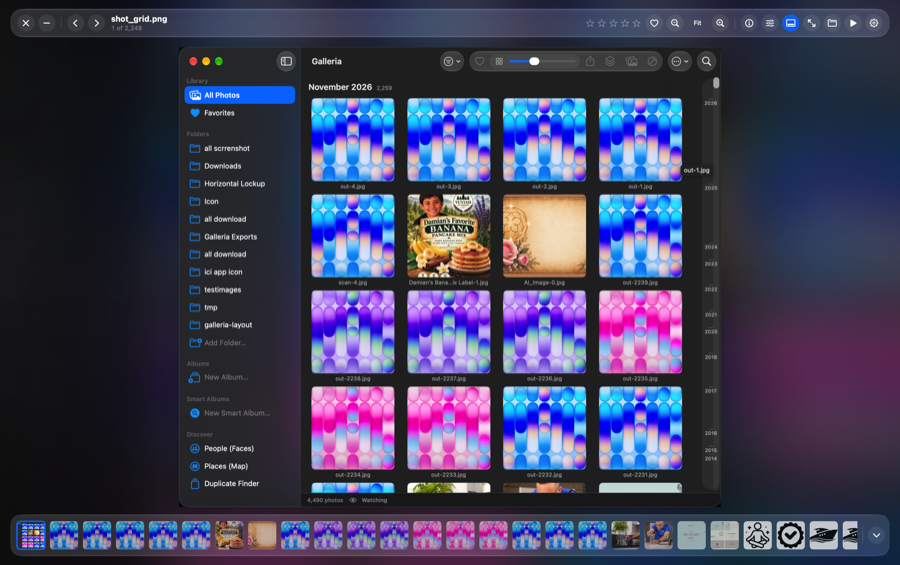
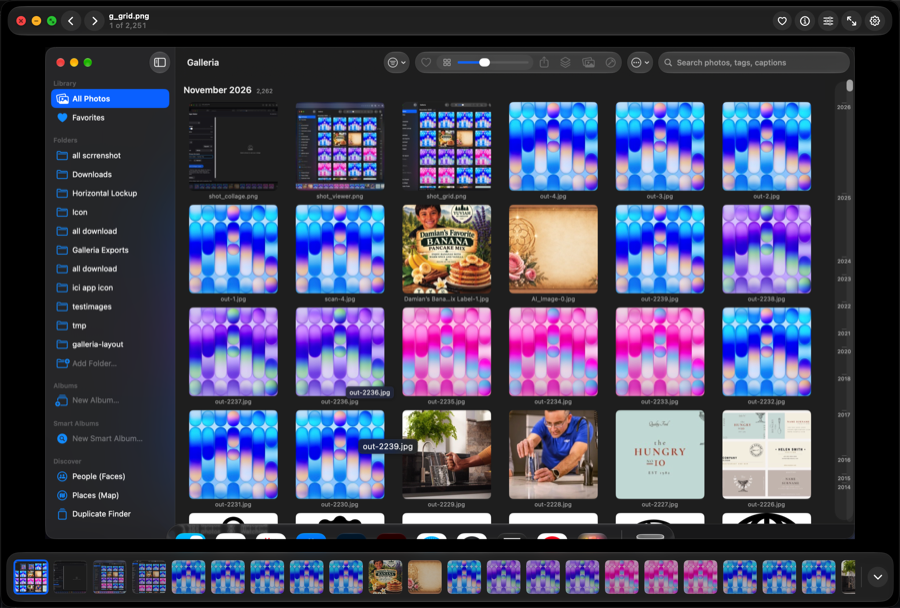
Improve screenshots: larger, consistent, more views

diff --git a/README.md b/README.md
@@ -98,12 +98,19 @@ open dist/Galleria.app
 ---
 
 
-## Screenshots
+## 📸 Screenshots
 
-| Photo library (grid) | Viewer | Collage maker |
-|---|---|---|
-| ![Grid](screenshots/grid.png) | ![Viewer](screenshots/viewer.png) | ![Collage](screenshots/collage.png) |
+### Photo library (grid)
+![Photo library grid](screenshots/grid.png)
 
+### Viewer with edits
+![Viewer with adjustments](screenshots/viewer.png)
+
+### Adjustments panel
+![Adjustments panel](screenshots/adjust.png)
+
+### Collage maker
+![Collage maker](screenshots/collage.png)
 
 ---
 
